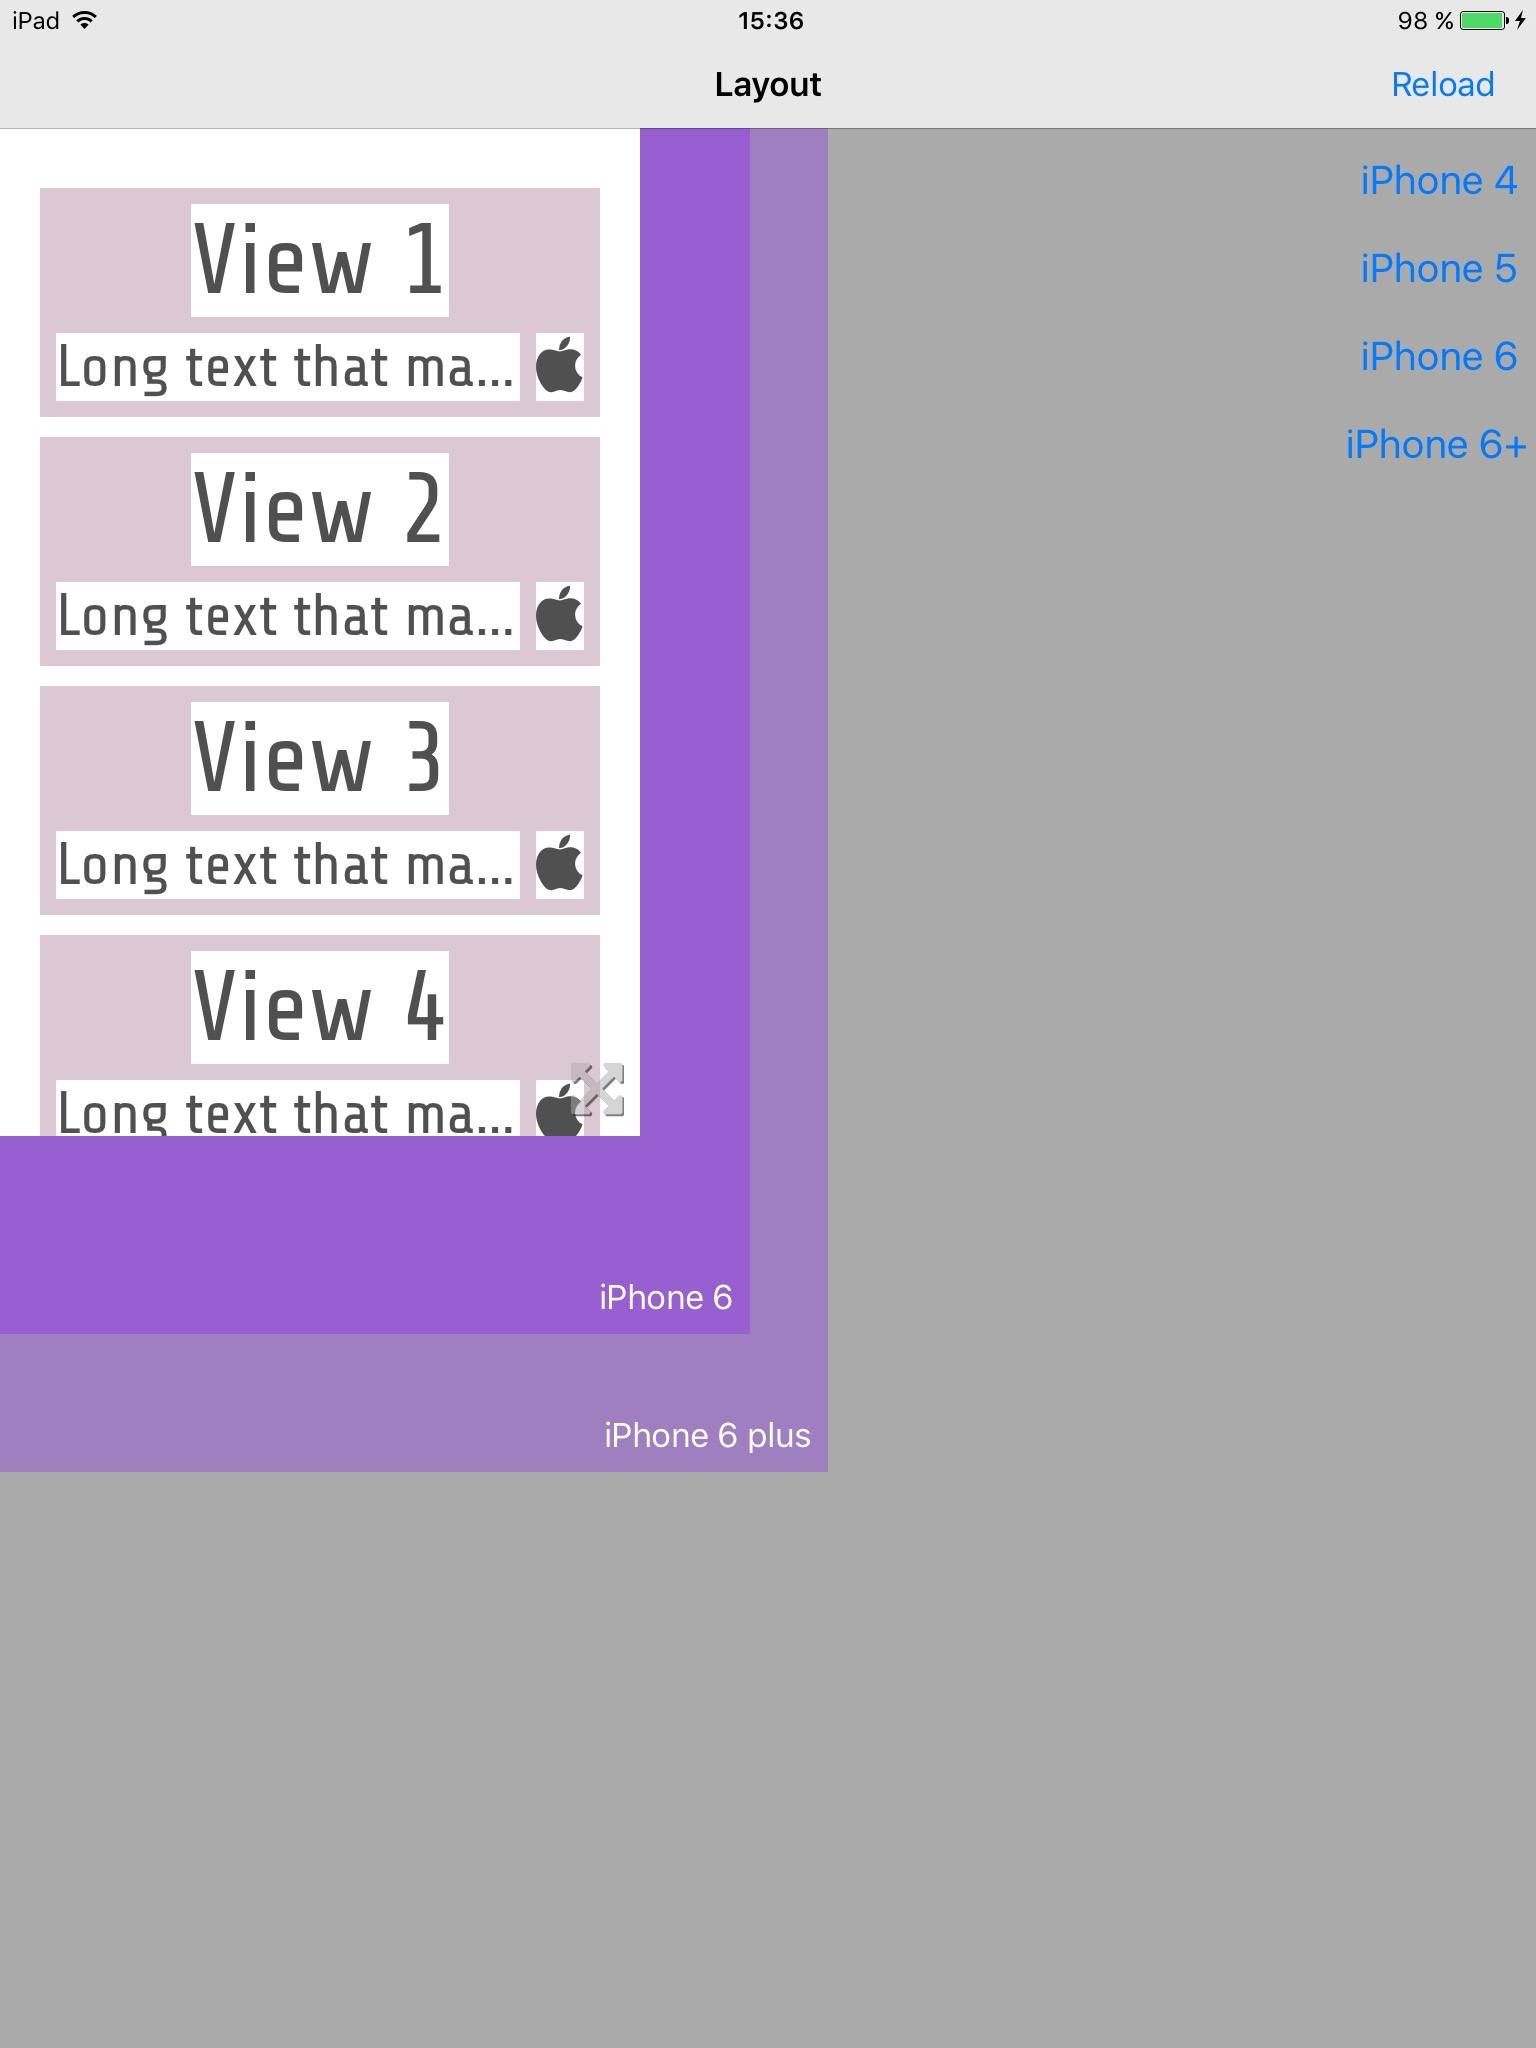
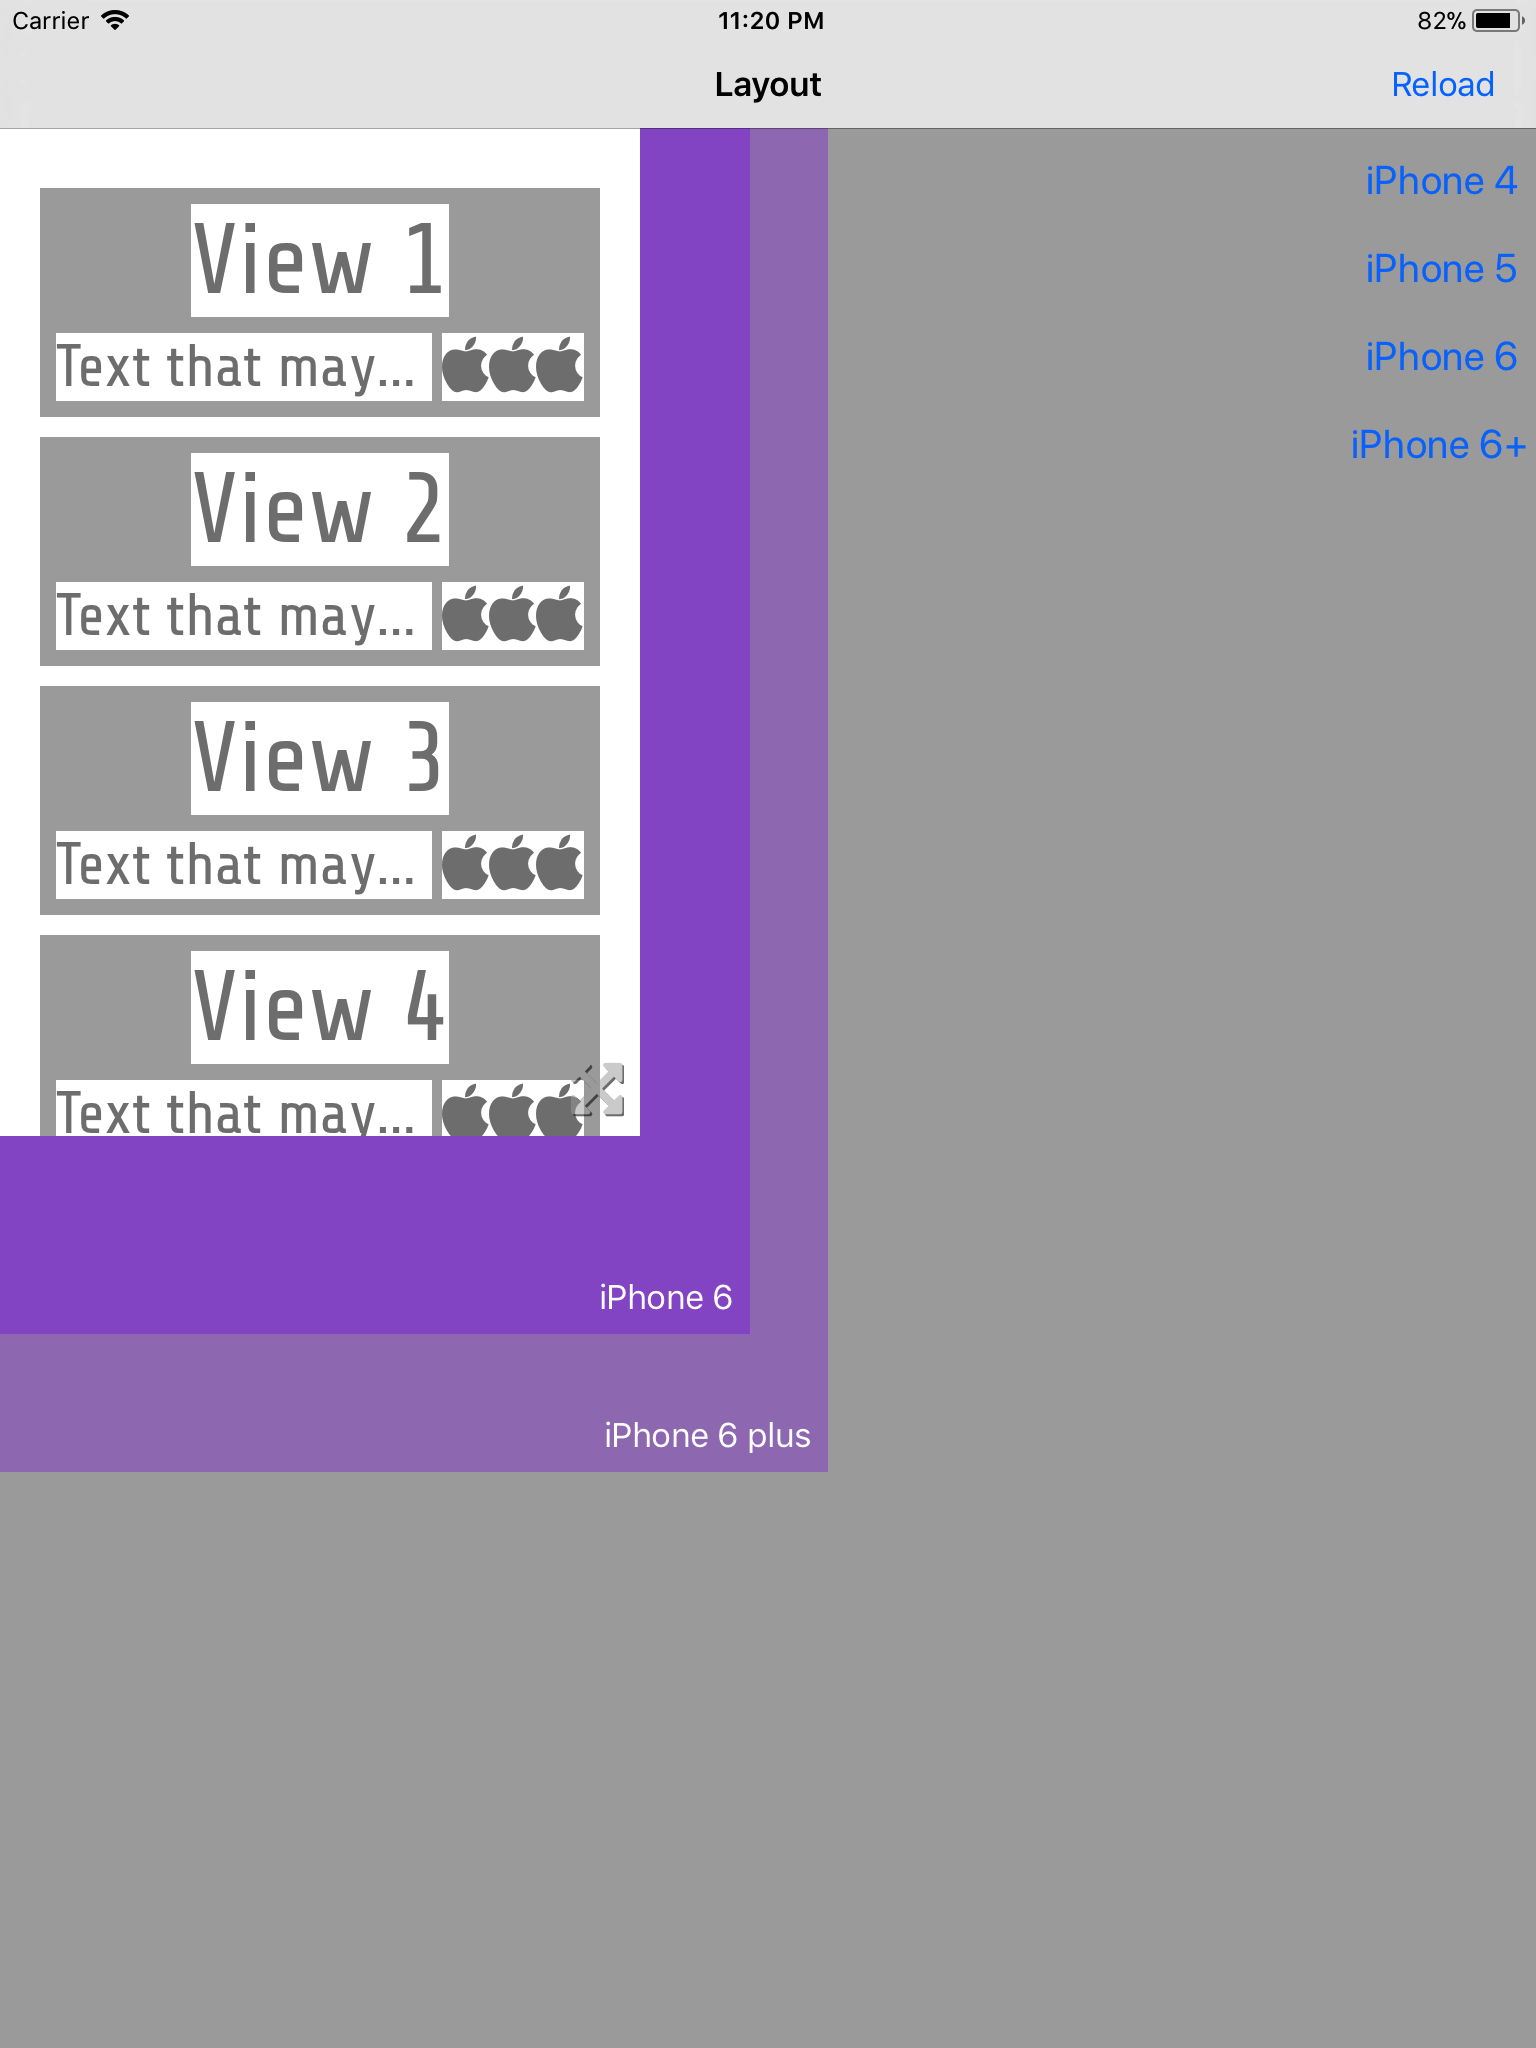
Update README, comment and screenshot

diff --git a/LayoutHelperApp/PreviewController.swift b/LayoutHelperApp/PreviewController.swift
@@ -1,8 +1,8 @@
 
 /**
  * Use this controller to try your layouts.
- * Override `setupViews` and add your views using __LayoutBuilder(controller: self).
- * Then in your real controller just use LayoutBuilder(controller: self) normally.
+ * In `setupViews` configure your view using the given builder.
+ * In your real controller create your LayoutBuilder(controller: self) normally.
  */
 
 import UIKit

diff --git a/README.md b/README.md
@@ -1,13 +1,15 @@
 
-#LayoutHelperApp
+# LayoutHelperApp
 
-With this app you can code and debug your layouts before adding them to your app.
+With this app you can code and quickly debug your layouts before adding them to your app.
 
 The app is meant to be run on an iPad so you can preview the layout in different sizes with the resizable container view.
 
-Edit [PreviewController.swift](LayoutHelperApp/PreviewController.swift) and configure your layout there. You may use util classes like [LayoutHelper](LayoutHelperApp/LayoutHelper.swift) and [LinearLayout](LayoutHelperApp/LinearLayout.h).
+Edit [PreviewController.swift](LayoutHelperApp/PreviewController.swift) and configure your layout there.
 
-If just run the app you will see an example, that looks like this:
+You may use util classes like [LayoutBuilder](LayoutHelperApp/LayoutBuilder.swift) and [LinearBuilder](LayoutHelperApp/LinearBuilder.swift).
+
+If just run the app you will see an example, that looks similar to this:
 
 <img height="500" src="screenshot.jpg">
 
